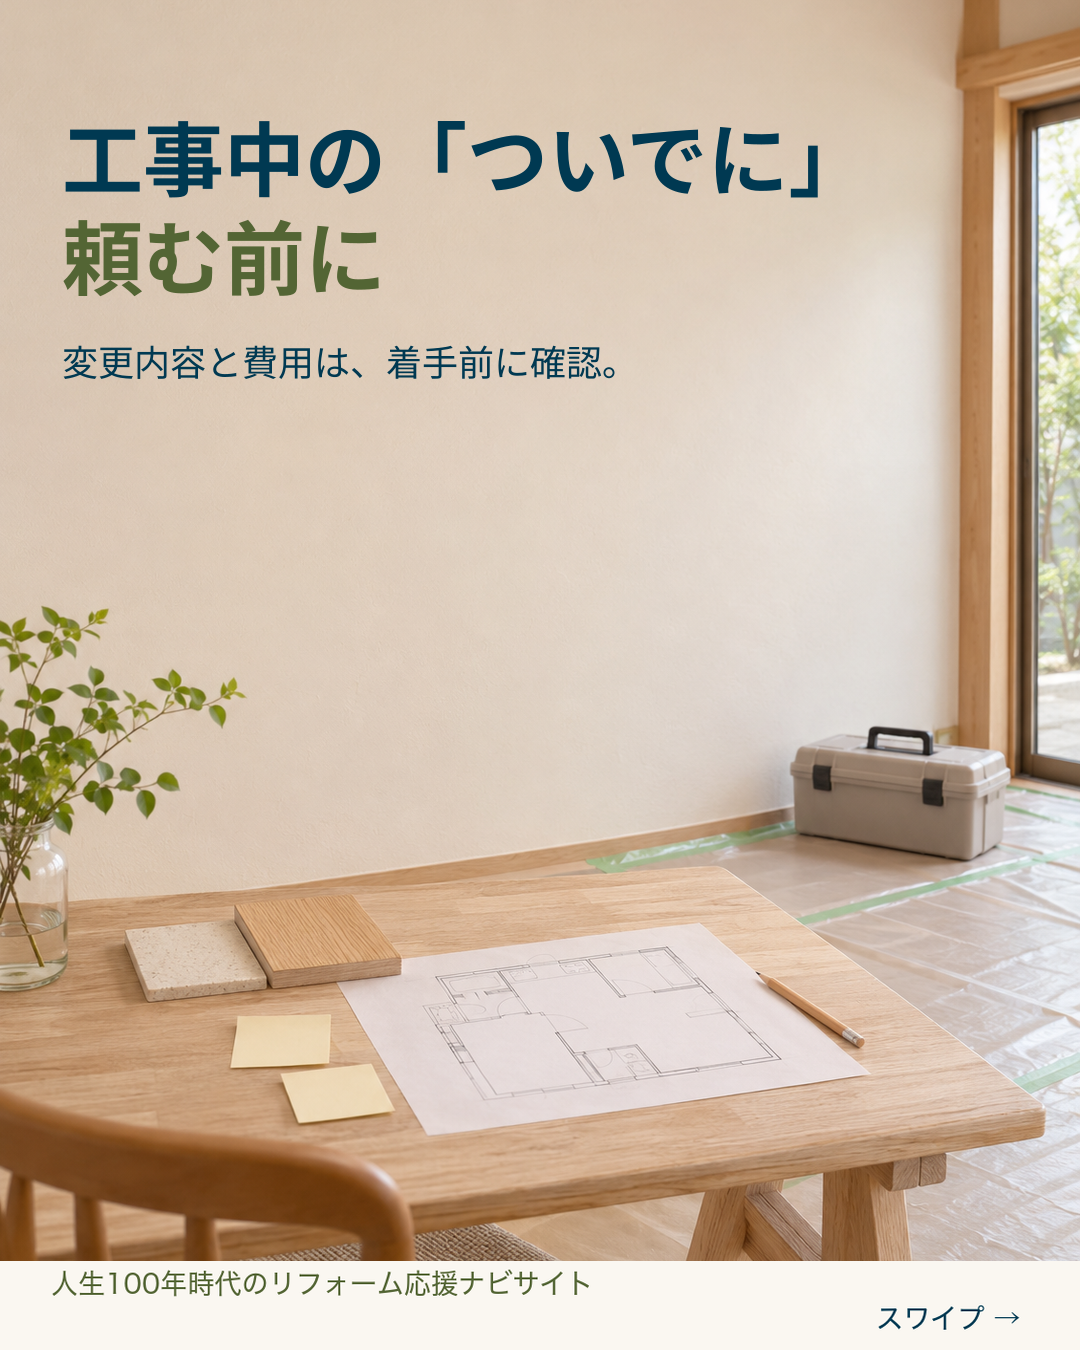
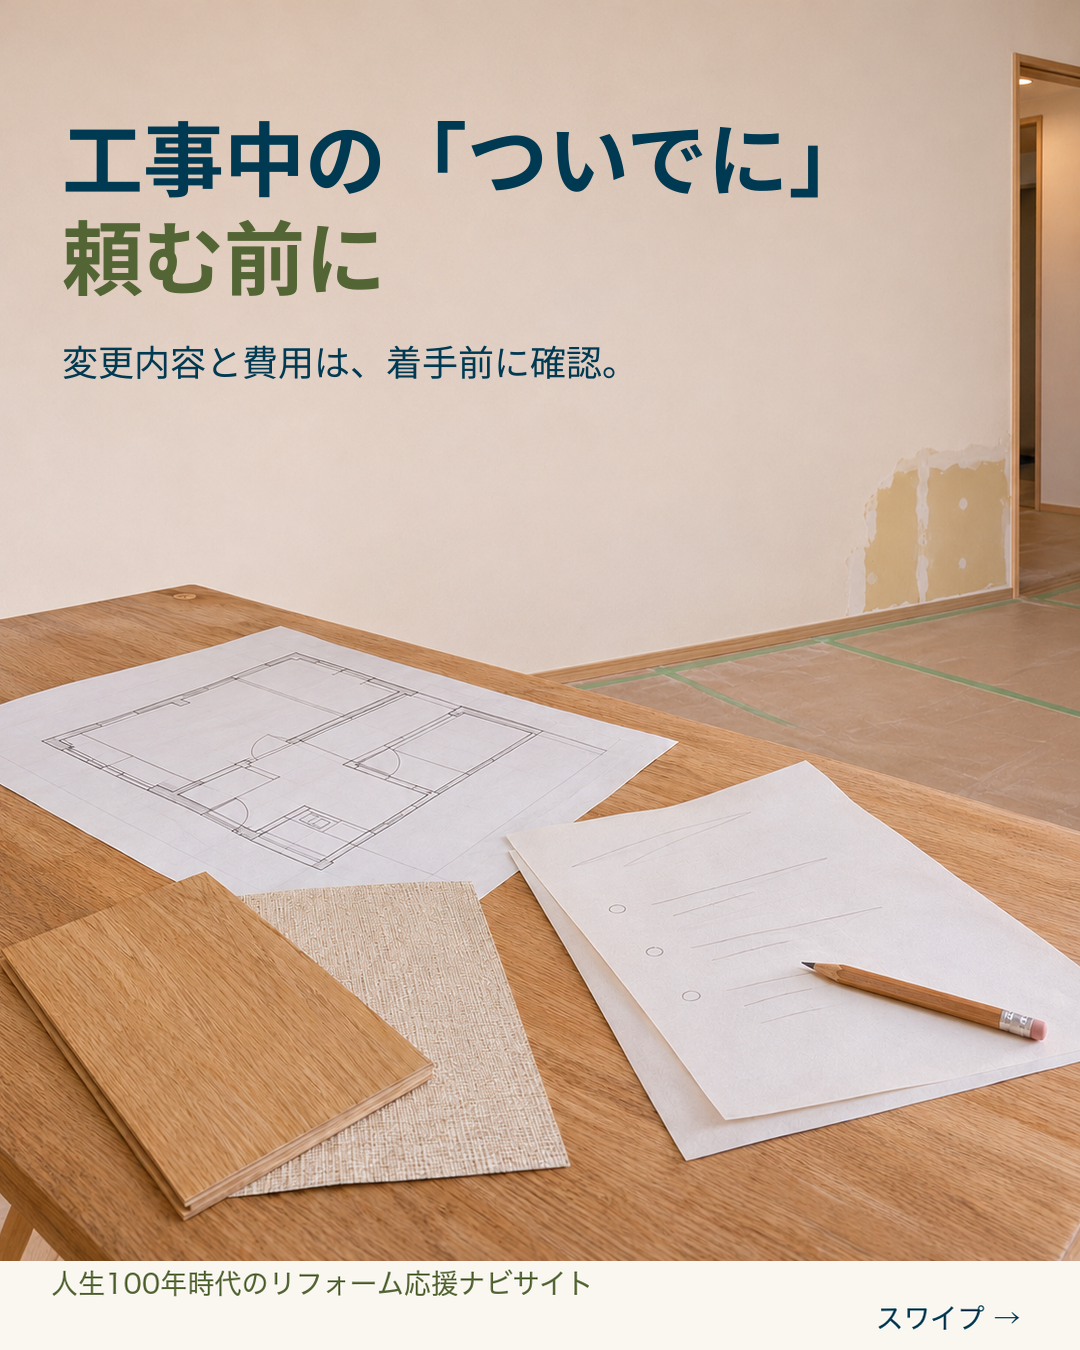
Refine eight Instagram compositions for episodes 33–47

diff --git a/legacy/instagram-next15-20261111/index.html b/legacy/instagram-next15-20261111/index.html
@@ -1,7 +1,7 @@
-<!doctype html><html lang="ja"><head><meta charset="utf-8"><meta name="viewport" content="width=device-width,initial-scale=1"><meta name="robots" content="noindex,nofollow"><meta name="color-scheme" content="light"><title>第33〜47回（11月11日作成）｜人生100年時代のリフォーム応援ナビサイト</title><meta name="description" content="次期Instagram投稿案15本・90画像とキャプションを確認するプレビュー。公開日は未定です。"><link rel="icon" href="data:,"><link rel="stylesheet" href="style.css?v=2026-11-11-approved-v3-footer-20261022-r4"></head><body>
+<!doctype html><html lang="ja"><head><meta charset="utf-8"><meta name="viewport" content="width=device-width,initial-scale=1"><meta name="robots" content="noindex,nofollow"><meta name="color-scheme" content="light"><title>第33〜47回（11月11日作成）｜人生100年時代のリフォーム応援ナビサイト</title><meta name="description" content="次期Instagram投稿案15本・90画像とキャプションを確認するプレビュー。公開日は未定です。"><link rel="icon" href="data:,"><link rel="stylesheet" href="style.css?v=2026-11-11-approved-v3-footer-20261022-r5-composition"></head><body>
 <nav class="batchnav" aria-label="確認ページの切り替え"><a href="../index.html">← コラム確認Bへ</a><strong>Instagram 第33〜47回・修正版</strong></nav>
 <main class="profile"><header class="account"><span>r.navi.100</span><span class="quiet">クライアント確認用・修正版</span></header><section class="profilehead"><div class="avatar accountmark" aria-hidden="true">r.navi<br>100</div><div><h1>人生100年時代のリフォーム応援ナビサイト</h1><p class="stats"><span><strong>15</strong> 投稿案</span><span><strong>90</strong> 画像</span><span><strong>10</strong> コラム連動案</span></p></div><p class="intro">暮らしや住まいづくりのヒントを、ご家族で話すきっかけに。<br>第33〜47回（11月11日作成）を、表紙から最後の画像・キャプションまで確認できます。</p></section>
 <section class="batchinfo"><h2>第33〜47回（11月11日作成）</h2><p>前回納品の第32回に続く、第33〜47回です。公開日は未定です。修正済みの画像とキャプションを掲載しています。</p><a href="確認一覧.csv" download="Instagram_第33〜47回_確認一覧.csv">確認一覧を保存（CSV）</a></section>
 <div class="filters" aria-label="投稿案の絞り込み"><button data-filter="all" aria-pressed="true">すべて 15</button><button data-filter="column" aria-pressed="false">コラム連動 10</button><button data-filter="standalone" aria-pressed="false">独立テーマ 5</button></div><p class="gridnote">第33〜47回の順に表示しています。公開日は未定です。画像を選ぶと、1枚ずつ確認できます。</p><section id="grid" class="grid" aria-label="第33〜47回（11月11日作成）"></section><footer class="pagefooter">Instagramへの投稿・予約は行いません。<a href="../index.html">コラム確認Bへ戻る</a></footer></main>
 <dialog id="postdialog" aria-labelledby="posttitle"><header class="dialoghead"><div><p id="postid"></p><h2 id="posttitle"></h2><p id="posttype"></p></div><button id="close" aria-label="閉じる">×</button></header><div class="dialogbody"><section class="carousel" aria-label="投稿画像"><div class="imagewrap"><img id="slideimage" width="1080" height="1350" alt=""></div><div class="pager"><button id="prev" aria-label="前の画像">←</button><span id="pagecount" aria-live="polite"></span><button id="next" aria-label="次の画像">→</button></div><div id="dots" class="dots" aria-label="画像を選ぶ"></div></section><aside class="details"><h3>キャプション</h3><p id="caption" class="caption"></p><div class="actions"><button id="copycaption">キャプションをコピー</button><a id="captiondownload" download>キャプションTXT</a><a id="imagedownload" download>表示中の画像を保存</a><a id="zipdownload" download>全画像とキャプションZIP</a></div><p id="copystatus" class="quiet" role="status"></p><a id="columnlink" class="columnlink" target="_blank" rel="noopener noreferrer" hidden>関連コラムのB確認版を開く ↗</a><p class="smallnote">ZIPには表紙を含む全画像を収録。画像上の中面番号は01 / 04〜04 / 04。表紙と最終ページには番号を付けていません。</p></aside></div></dialog>
-<script src="data.js?v=20261111-numbering-33-47"></script><script src="app.js?v=20261111-numbering-33-47"></script><script src="zip-download.js?v=20261111-numbering-33-47"></script></body></html>
+<script src="data.js?v=2026-11-11-approved-v3-footer-20261022-r5-composition"></script><script src="app.js?v=2026-11-11-approved-v3-footer-20261022-r5-composition"></script><script src="zip-download.js?v=2026-11-11-approved-v3-footer-20261022-r5-composition"></script></body></html>

diff --git a/legacy/instagram-next15-20261111/data.js b/legacy/instagram-next15-20261111/data.js
@@ -100,7 +100,7 @@ window.RNAVI_NEXT15 = [
         "page": 1,
         "display_number": null,
         "image": "images/V02-01.png",
[2 lines of base64/hex data omitted]
       },
       {
         "heading": "全期間固定は、完済まで",
@@ -412,7 +412,7 @@ window.RNAVI_NEXT15 = [
         "page": 1,
         "display_number": null,
         "image": "images/V06-01.png",
[2 lines of base64/hex data omitted]
       },
       {
         "heading": "まず、型番から説明書を探す",
@@ -802,7 +802,7 @@ window.RNAVI_NEXT15 = [
         "page": 1,
         "display_number": null,
         "image": "images/V11-01.png",
[2 lines of base64/hex data omitted]
       },
       {
         "heading": "飲み物の扱いを先に聞く",
@@ -920,7 +920,7 @@ window.RNAVI_NEXT15 = [
         "page": 5,
         "display_number": "04 / 04",
         "image": "images/V12-05.png",
[2 lines of base64/hex data omitted]
       },
       {
         "heading": "保存して、サンプルが来たら",
@@ -958,7 +958,7 @@ window.RNAVI_NEXT15 = [
         "page": 1,
         "display_number": null,
         "image": "images/V13-01.png",
[2 lines of base64/hex data omitted]
       },
       {
         "heading": "いつもの家電を並べて考える",
@@ -968,7 +968,7 @@ window.RNAVI_NEXT15 = [
         "page": 2,
         "display_number": "01 / 04",
         "image": "images/V13-02.png",
[2 lines of base64/hex data omitted]
       },
       {
         "heading": "同時に使うものも伝える",
@@ -988,7 +988,7 @@ window.RNAVI_NEXT15 = [
         "page": 4,
         "display_number": "03 / 04",
         "image": "images/V13-04.png",
[2 lines of base64/hex data omitted]
       },
       {
         "heading": "コードが通路を横切らない？",
@@ -1036,7 +1036,7 @@ window.RNAVI_NEXT15 = [
         "page": 1,
         "display_number": null,
         "image": "images/V14-01.png",
[2 lines of base64/hex data omitted]
       },
       {
         "heading": "どこを、どう変えたい？",

diff --git a/legacy/instagram-next15-20261111/app.js b/legacy/instagram-next15-20261111/app.js
@@ -1,4 +1,4 @@
-(()=>{'use strict';const assetVersion='2026-11-11-approved-v3-footer-20261022-r4';const assetUrl=p=>p+(p.includes('?')?'&':'?')+'v='+encodeURIComponent(assetVersion);const posts=window.RNAVI_NEXT15,$=id=>document.getElementById(id),dialog=$('postdialog');let current=null,page=0,opener=null,touchX=null;const el=(tag,cls,text)=>{const n=document.createElement(tag);if(cls)n.className=cls;if(text!==undefined)n.textContent=text;return n;};
+(()=>{'use strict';const assetVersion='2026-11-11-approved-v3-footer-20261022-r5-composition';const assetUrl=p=>p+(p.includes('?')?'&':'?')+'v='+encodeURIComponent(assetVersion);const posts=window.RNAVI_NEXT15,$=id=>document.getElementById(id),dialog=$('postdialog');let current=null,page=0,opener=null,touchX=null;const el=(tag,cls,text)=>{const n=document.createElement(tag);if(cls)n.className=cls;if(text!==undefined)n.textContent=text;return n;};
 posts.forEach(p=>{const b=el('button','tile');b.dataset.id=p.id;b.id=p.proposal_id;b.setAttribute('aria-label',`${p.episode_label}：${p.title}。全${p.pages.length}枚を開く`);const im=el('img');im.src=assetUrl(p.image);im.alt=p.title;im.width=1080;im.height=1350;im.loading='lazy';b.append(im,el('span','proposal',p.episode_label),el('span','count',`${p.pages.length}枚`));b.addEventListener('click',()=>openPost(p,b));$('grid').append(b);});
 document.querySelectorAll('[data-filter]').forEach(b=>b.addEventListener('click',()=>{const f=b.dataset.filter;document.querySelectorAll('[data-filter]').forEach(x=>x.setAttribute('aria-pressed',String(x===b)));[...$('grid').children].forEach((tile,i)=>tile.hidden=f==='column'?!posts[i].column_candidate:f==='standalone'?!!posts[i].column_candidate:false);}));
 function showPage(){const s=current.pages[page];$('slideimage').src=assetUrl(s.image);$('slideimage').alt=`${current.episode_label} ${s.page}/${current.pages.length}：${s.heading}`;$('pagecount').textContent=`${s.page} / ${current.pages.length}${s.page===1?' · 表紙':s.page===current.pages.length?' · 最終ページ':` · 中面 ${s.display_number}`} `;$('prev').disabled=page===0;$('next').disabled=page===current.pages.length-1;$('imagedownload').href=assetUrl(s.image);$('imagedownload').download=current.episode_label+'-'+String(s.page).padStart(2,'0')+'.png';[...$('dots').children].forEach((d,i)=>d.setAttribute('aria-current',String(i===page)));}

diff --git a/legacy/instagram-next15-20261111/zip-download.js b/legacy/instagram-next15-20261111/zip-download.js
@@ -1,4 +1,4 @@
-(()=>{'use strict';const assetVersion='2026-11-11-approved-v3-footer-20261022-r4';const assetUrl=p=>p+(p.includes('?')?'&':'?')+'v='+encodeURIComponent(assetVersion);
+(()=>{'use strict';const assetVersion='2026-11-11-approved-v3-footer-20261022-r5-composition';const assetUrl=p=>p+(p.includes('?')?'&':'?')+'v='+encodeURIComponent(assetVersion);
 const encoder=new TextEncoder();const table=Array.from({length:256},(_,n)=>{let c=n;for(let k=0;k<8;k++)c=c&1?0xedb88320^(c>>>1):c>>>1;return c>>>0;});
 const crc32=bytes=>{let c=0xffffffff;for(const b of bytes)c=table[(c^b)&255]^(c>>>8);return(c^0xffffffff)>>>0;};
 const header=(size,fields)=>{const b=new Uint8Array(size),v=new DataView(b.buffer);for(const [offset,value,width]of fields){if(width===2)v.setUint16(offset,value,true);else v.setUint32(offset,value,true);}return b;};
